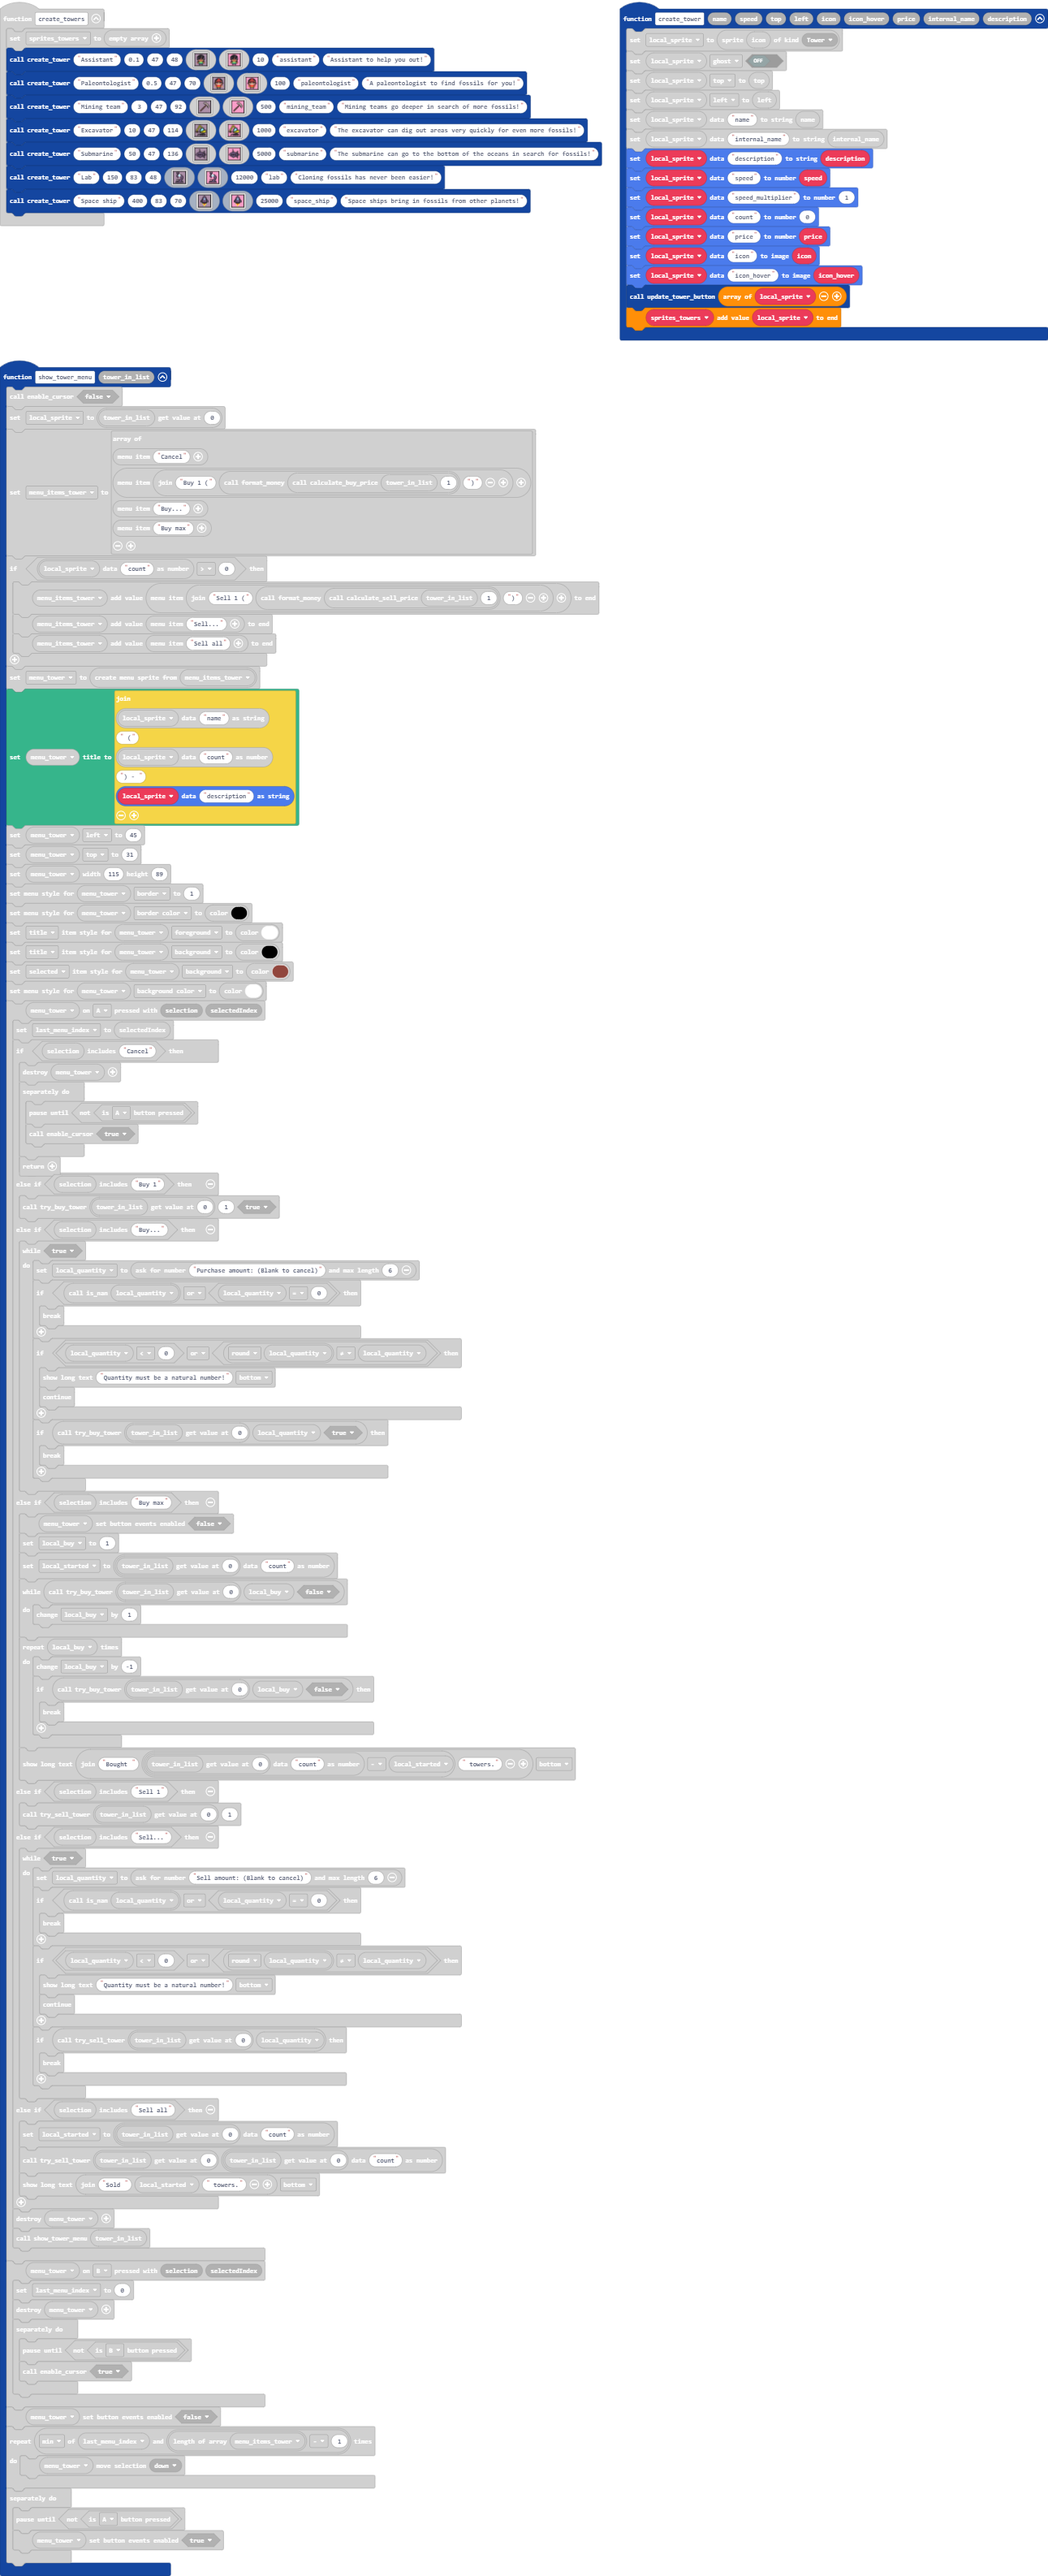
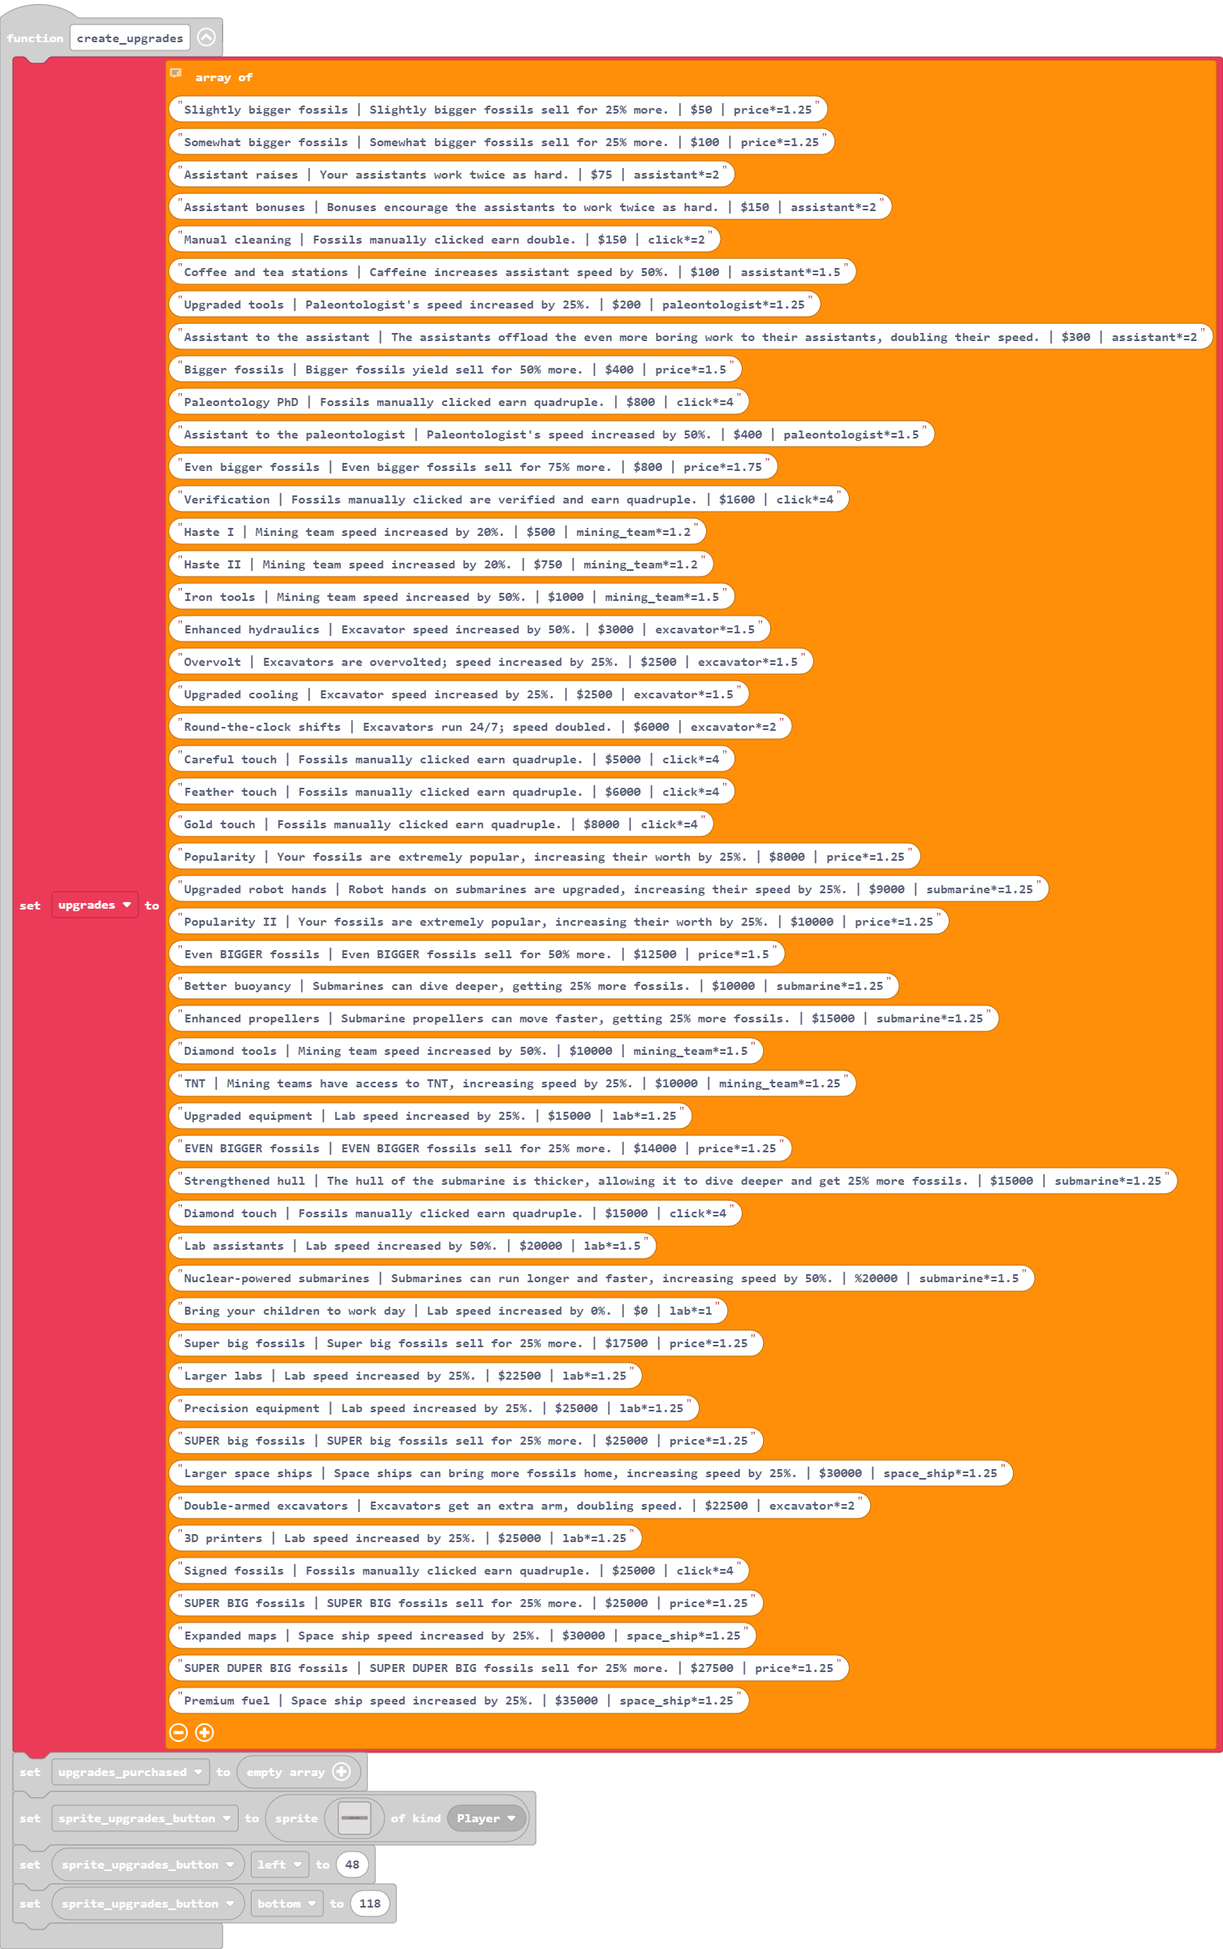
Upgrades

diff --git a/main.ts b/main.ts
@@ -36,15 +36,25 @@ function create_upgrades () {
     "Enhanced propellers | Submarine propellers can move faster, getting 25% more fossils. | $15000 | submarine*=1.25",
     "Diamond tools | Mining team speed increased by 50%. | $10000 | mining_team*=1.5",
     "TNT | Mining teams have access to TNT, increasing speed by 25%. | $10000 | mining_team*=1.25",
+    "Upgraded equipment | Lab speed increased by 25%. | $15000 | lab*=1.25",
     "EVEN BIGGER fossils | EVEN BIGGER fossils sell for 25% more. | $14000 | price*=1.25",
     "Strengthened hull | The hull of the submarine is thicker, allowing it to dive deeper and get 25% more fossils. | $15000 | submarine*=1.25",
     "Diamond touch | Fossils manually clicked earn quadruple. | $15000 | click*=4",
+    "Lab assistants | Lab speed increased by 50%. | $20000 | lab*=1.5",
     "Nuclear-powered submarines | Submarines can run longer and faster, increasing speed by 50%. | %20000 | submarine*=1.5",
+    "Bring your children to work day | Lab speed increased by 0%. | $0 | lab*=1",
     "Super big fossils | Super big fossils sell for 25% more. | $17500 | price*=1.25",
+    "Larger labs | Lab speed increased by 25%. | $22500 | lab*=1.25",
+    "Precision equipment | Lab speed increased by 25%. | $25000 | lab*=1.25",
     "SUPER big fossils | SUPER big fossils sell for 25% more. | $25000 | price*=1.25",
+    "Larger space ships | Space ships can bring more fossils home, increasing speed by 25%. | $30000 | space_ship*=1.25",
     "Double-armed excavators | Excavators get an extra arm, doubling speed. | $22500 | excavator*=2",
+    "3D printers | Lab speed increased by 25%. | $25000 | lab*=1.25",
     "Signed fossils | Fossils manually clicked earn quadruple. | $25000 | click*=4",
-    "SUPER BIG fossils | SUPER BIG fossils sell for 25% more. | $25000 | price*=1.25"
+    "SUPER BIG fossils | SUPER BIG fossils sell for 25% more. | $25000 | price*=1.25",
+    "Expanded maps | Space ship speed increased by 25%. | $30000 | space_ship*=1.25",
+    "SUPER DUPER BIG fossils | SUPER DUPER BIG fossils sell for 25% more. | $27500 | price*=1.25",
+    "Premium fuel | Space ship speed increased by 25%. | $35000 | space_ship*=1.25"
     ]
     upgrades_purchased = []
     sprite_upgrades_button = sprites.create(assets.image`upgrades_button`, SpriteKind.Player)
